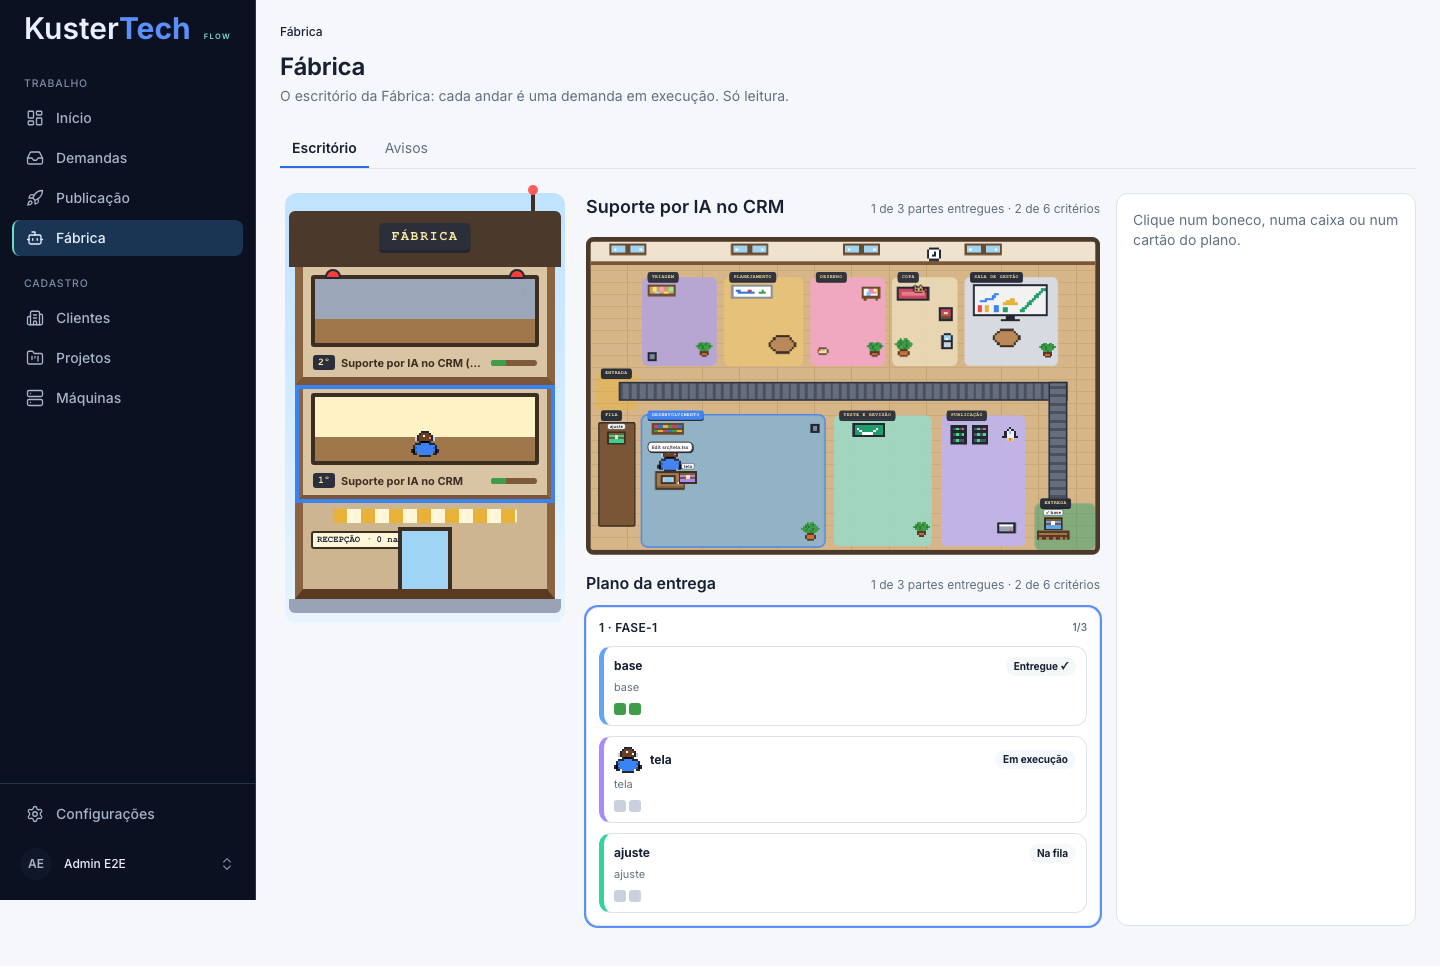
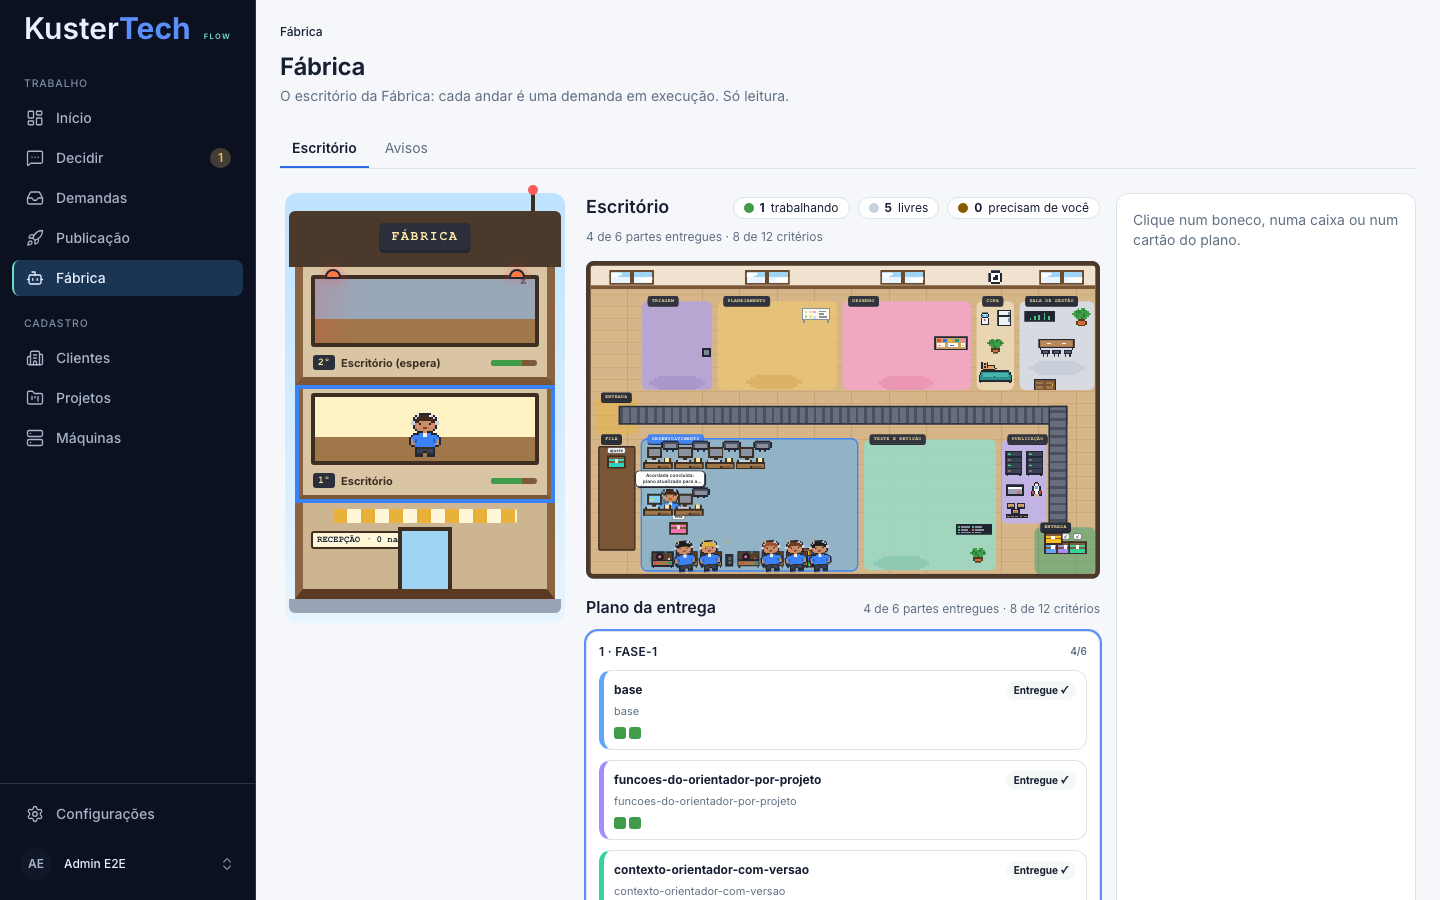
test(fabrica): e2e e capturas do escritório com personagens

diff --git a/e2e/fabrica.spec.ts b/e2e/fabrica.spec.ts
@@ -139,6 +139,16 @@ test('escritório: prédio com o andar que espera, mapa, tela do agente e sala d
     ).toBeVisible()
     await page.getByRole('button', { name: new RegExp(`andar: ${feature},`) }).click()
     await expect(page.getByRole('button', { name: /^frontend · tela:/ })).toBeVisible()
+    await expect(page.getByRole('button', { name: /^\d+ trabalhando$/ })).toBeVisible()
+    await expect(page.getByRole('button', { name: /: livre, / }).first()).toBeVisible()
+    // sentado, o personagem fica atrás da mesa: só o tronco recebe o clique
+    await page
+      .getByRole('button', { name: /^frontend · tela:/ })
+      .click({ position: { x: 11, y: 2 } })
+    // o menu lateral também é `complementary`; a ficha é o do conteúdo principal
+    await expect(page.getByRole('main').getByRole('complementary')).toContainText('Nesta demanda')
+    await page.emulateMedia({ reducedMotion: 'reduce' })
+    await expect(page.locator('.esc-confete')).toHaveCount(0)
     await page.getByRole('button', { name: /computador de frontend · tela/ }).click()
     await expect(page.getByRole('dialog')).toContainText('lendo o catálogo do kit')
     await page.keyboard.press('Escape')

diff --git a/docs/homologacao/escritorio-da-fabrica/LEIA-ME.md b/docs/homologacao/escritorio-da-fabrica/LEIA-ME.md
@@ -1,8 +1,9 @@
 # Escritório da Fábrica: conferência no navegador
 
-Capturas de 21/11/2026, tiradas com `pnpm build` + `pnpm start` e um retrato v2 de teste (`e2e/support/fabrica.ts`, `retratoV2DeTeste`). O rascunho aprovado está em `docs/superpowers/specs/assets/2026-11-21-escritorio-da-fabrica-rascunho.html`.
+Capturas de 21/11/2026, com `desktop-escritorio.png` e `desktop-ficha-do-personagem.png` refeitas em 23/11/2026, tiradas com `pnpm build` + `pnpm start` e um retrato v2 de teste (`e2e/support/fabrica.ts`, `retratoV2DeTeste`). O rascunho aprovado está em `docs/superpowers/specs/assets/2026-11-21-escritorio-da-fabrica-rascunho.html`.
 
-- `desktop-escritorio.png` (1440×900): o prédio com dois andares, um deles com as sirenes porque espera o Paulo (decisão aberta), o mapa com a esteira, a fila, a entrega e o plano da entrega.
+- `desktop-escritorio.png` (1440×900, 23/11/2026): o prédio com dois andares, um deles com as sirenes porque espera o Paulo (decisão aberta), e o mapa com a esteira, a fila, a entrega e o plano da entrega. Todos os participantes do plano ficam no andar: quem tem parte em andamento aparece trabalhando na mesa (com balão da última ação) e quem já entregou a sua fica livre, indo para os hobbies (poltrona, cama, copa). Acima do mapa, os contadores "1 trabalhando", "5 livres" e "0 precisam de você" são botões que filtram e realçam os personagens.
+- `desktop-ficha-do-personagem.png` (1440×900, 23/11/2026): a ficha aberta ao clicar no personagem do frontend, na coluna da direita, com o bloco "Nesta demanda" (entregas, tempo, custo), a próxima parte, o atalho para a tela do agente e o histórico.
 - `desktop-tela-do-agente.png`: o zoom no computador do frontend, com as linhas da execução, o modelo, o custo e os critérios.
 - `desktop-sala-de-gestao.png`: a sala de gestão. Com o histórico curto do teste, a previsão diz "previsão ainda sem base", como manda a spec.
 - `celular.png`: no celular, a lista de andares e os detalhes técnicos, sem o mapa.
